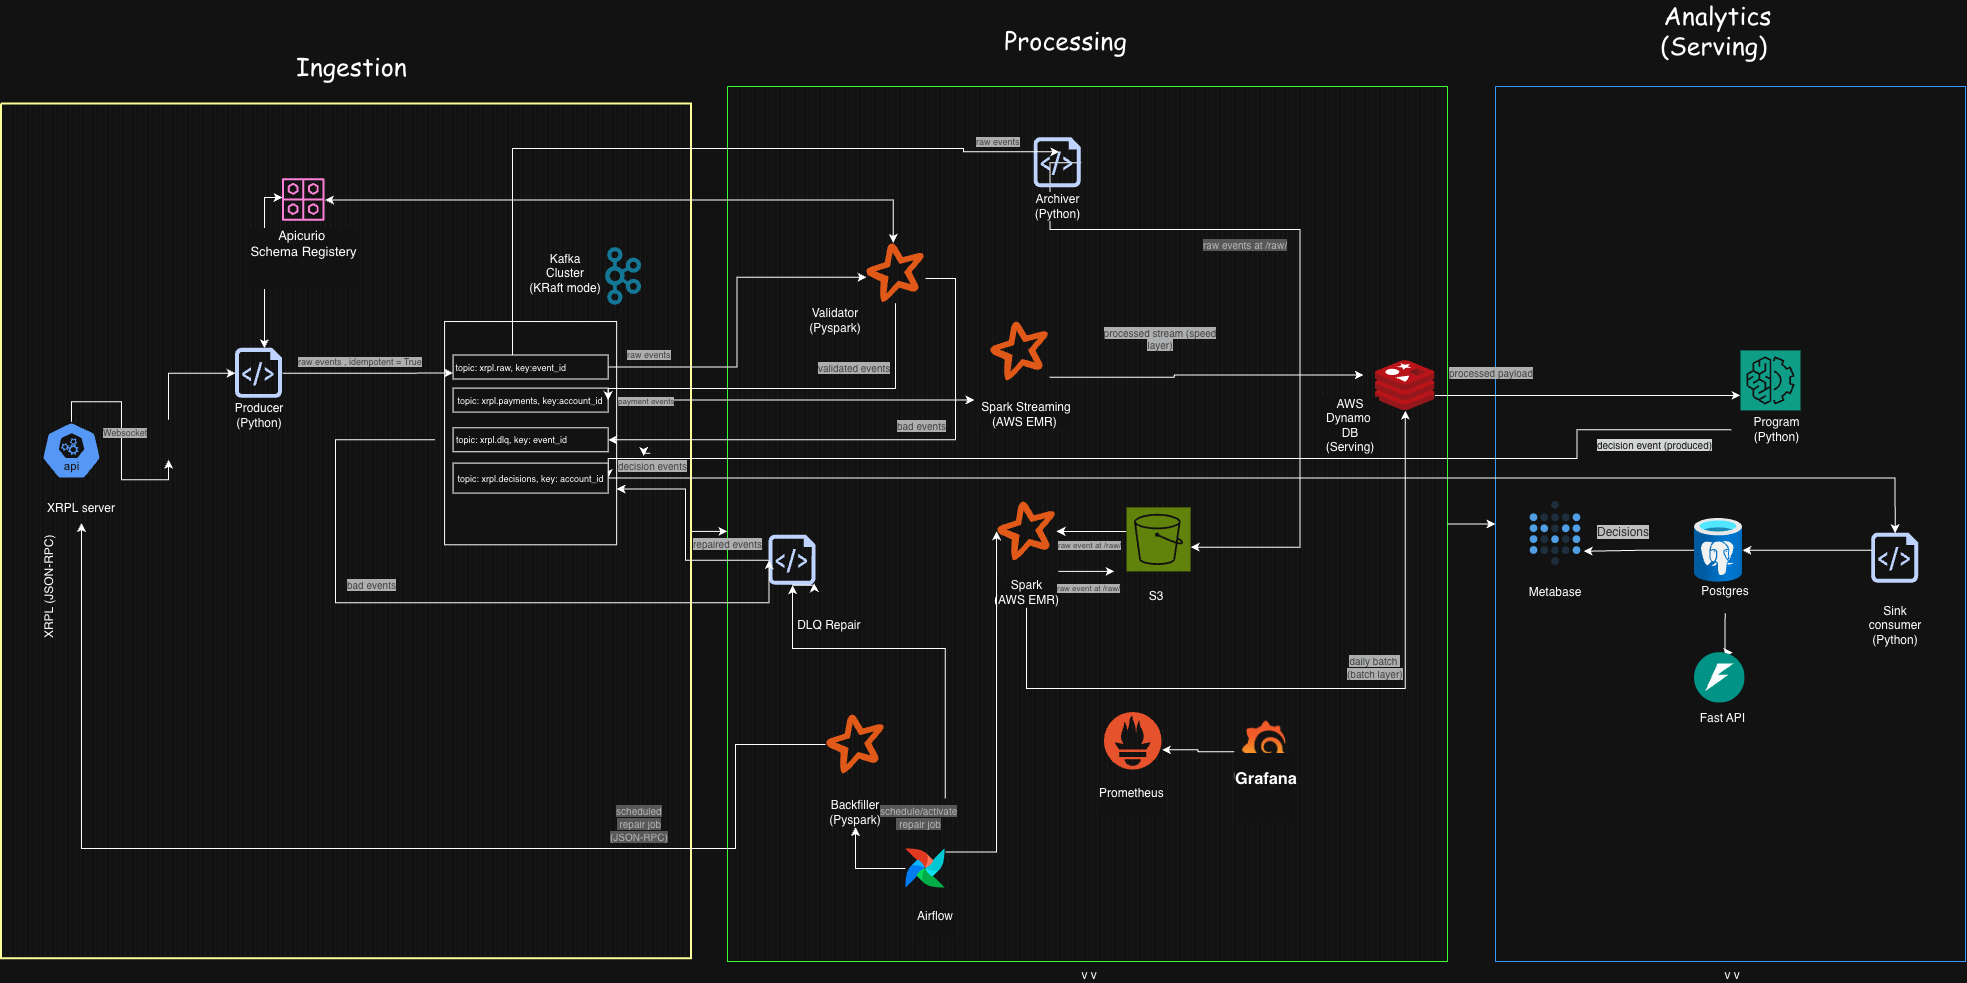
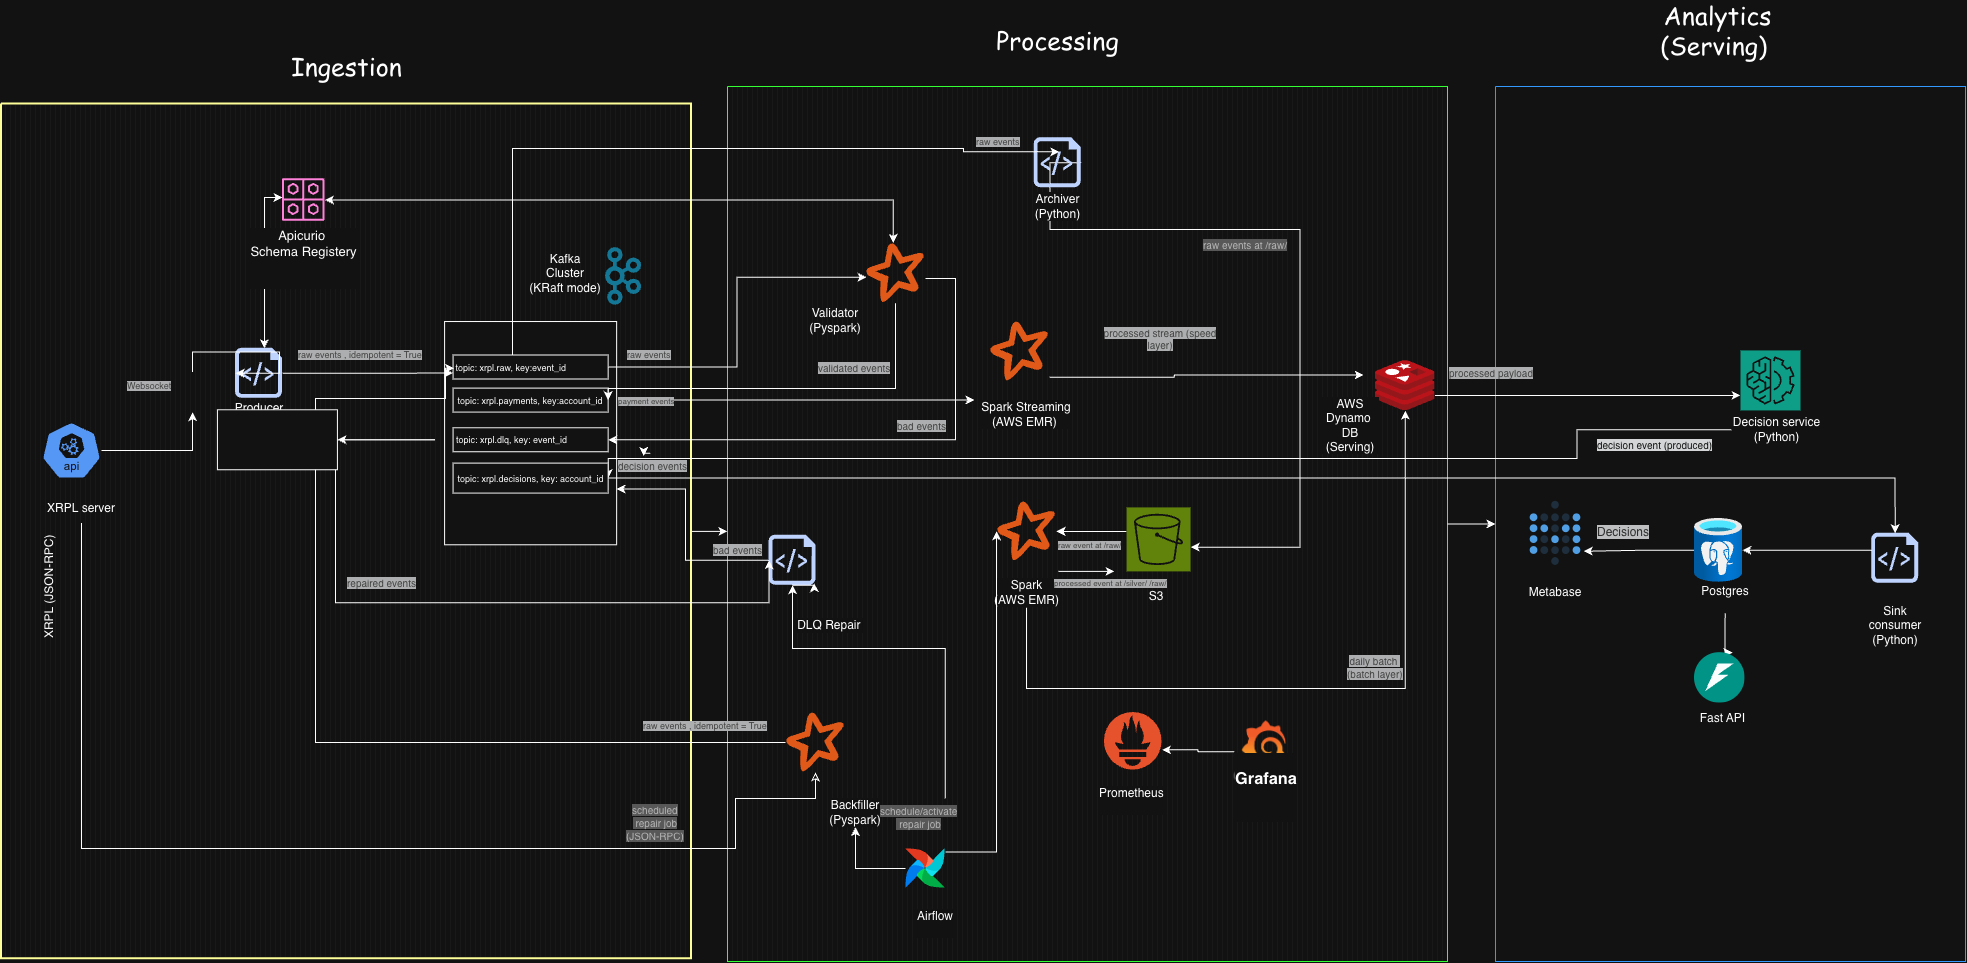
update architecture and requirements documentation

diff --git a/docs/architecture.md b/docs/architecture.md
@@ -1,3 +1,209 @@
-# Architecture
+# Architecture: Real-Time Risk & Decisioning Platform
 
-TODO
+> Status: draft (design v5). For what the system must do and the P0/P1/P2 priorities, see [REQUIREMENTS.md](REQUIREMENTS.md).
+
+## 1. Overview
+
+A streaming platform that scores **live payments** in near real time and returns **explainable risk decisions** from rolling per-account behaviour.
+
+- **Data source:** [XRP Ledger (XRPL)](https://xrpl.org/docs/references/http-websocket-apis/public-api-methods), a public payments network. Free, no API key, live WebSocket push; JSON-RPC for historical and gap fetches.
+- **Entity:** XRPL account (`account_id`). All behavioural features are computed per account.
+- **Output:** one decision per payment (`allow` / `review` / `block`) with a score, reasons, and the rule version that produced it.
+
+## 2. High-Level Design
+
+The system is split into three zones.
+
+| Zone | Responsibility |
+|---|---|
+| **Ingestion** | Receive XRPL events, wrap them in an envelope, enforce contracts, publish to Kafka |
+| **Processing** | Validate, deduplicate, archive, compute real-time and batch features, handle problem events |
+| **Analytics (Serving)** | Serve features, make decisions, store and expose decisions |
+
+```mermaid
+flowchart LR
+  subgraph ING[Ingestion]
+    XRPL[XRPL server<br/>WebSocket / JSON-RPC]
+    PROD[Producer<br/>Python]
+    REG[Apicurio<br/>Schema Registry]
+    BF[Backfiller<br/>PySpark]
+  end
+
+  subgraph KAFKA[Kafka - KRaft]
+    RAW[(xrpl.raw<br/>key: event_id)]
+    PAY[(xrpl.payments<br/>key: account_id)]
+    DLQ[(xrpl.dlq<br/>key: event_id)]
+    DEC[(xrpl.decisions<br/>key: account_id)]
+  end
+
+  subgraph PROC[Processing]
+    VAL[Validator<br/>PySpark]
+    ARC[Archiver<br/>Python]
+    SS[Spark Structured Streaming<br/>speed layer]
+    SB[Spark batch<br/>daily]
+    S3[(S3<br/>/raw /silver /gold /dlq)]
+    REP[DLQ repair<br/>Python]
+    AF[Airflow]
+  end
+
+  subgraph SRV[Analytics / Serving]
+    DDB[(DynamoDB<br/>account_features)]
+    DS[Decision service<br/>Python]
+    SINK[Sink consumer<br/>Python]
+    PG[(PostgreSQL)]
+    API[FastAPI]
+    MB[Metabase]
+  end
+
+  XRPL -- WebSocket --> PROD --> RAW
+  REG -. schemas .- PROD
+  REG -. schemas .- VAL
+  XRPL -- JSON-RPC --> BF --> RAW
+
+  RAW --> VAL
+  VAL -- valid --> PAY
+  VAL -- invalid --> DLQ
+  RAW --> ARC --> S3
+
+  PAY --> SS -- rt features --> DDB
+  S3 -- /raw --> SB -- batch features --> DDB
+  SB -- /silver /gold --> S3
+
+  DLQ --> REP
+  REP -- fixable --> RAW
+  REP -- unfixable --> S3
+
+  PAY -- trigger --> DS
+  DDB -- feature read --> DS
+  DS --> DEC --> SINK --> PG
+  PG --> API
+  PG --> MB
+
+  AF -. schedules .-> SB
+  AF -. schedules .-> REP
+  AF -. schedules .-> BF
+```
+
+Prometheus and Grafana scrape every service and are left out of the diagram for readability.
+
+### End-to-end flow
+
+1. XRPL (WebSocket) → Producer → `xrpl.raw`
+2. Backfiller (JSON-RPC, Airflow) → `xrpl.raw`
+3. `xrpl.raw` → Validator → `xrpl.payments`; invalid → `xrpl.dlq`
+4. `xrpl.raw` → Archiver → S3 `/raw/`
+5. `xrpl.payments` → Spark Streaming → DynamoDB (real-time features)
+6. S3 `/raw/` → Spark batch (daily, Airflow) → DynamoDB + S3 `/silver/` `/gold/`
+7. `xrpl.dlq` → DLQ repair (Airflow) → `xrpl.raw`
+8. `xrpl.payments` → Decision service (reads DynamoDB) → `xrpl.decisions`
+9. `xrpl.decisions` → Sink consumer → PostgreSQL → Metabase / FastAPI
+
+## 3. Key Technology Decisions
+
+| Area | Decision | Why |
+|---|---|---|
+| Event bus | Kafka, single cluster in **KRaft mode** | Buffers bursts, supports replay; KRaft removes ZooKeeper |
+| Schema registry | **Apicurio** (self-hosted) | Open-source data contracts on every topic write |
+| Stream and batch processing | **PySpark** (Structured Streaming + batch) | One stack for both layers; built-in watermarking and dedup |
+| Serving store | **AWS DynamoDB** (DynamoDB Local in development) | Key-value lookups per account, native TTL |
+| Custom services | Python | Producer, archiver, DLQ repair, decision service, sink consumer |
+| Decision storage and access | PostgreSQL + FastAPI + Metabase | Queryable history, read-only API, BI dashboards |
+| Orchestration | Airflow | Batch, DLQ repair, replay and backfill scheduling |
+| Monitoring | Prometheus + Grafana | Metrics, SLO panels, alerts |
+| Deployment | Local Docker now; AWS (EMR, DynamoDB, S3) for the cloud phase | Keeps cost near zero while building |
+
+## 4. Components
+
+| Component | Role | Zone | Type |
+|---|---|---|---|
+| Producer (Python) | WebSocket → envelope → `xrpl.raw` | Ingestion | Core |
+| Kafka (KRaft) | Event bus and buffer | Ingestion | Core |
+| Apicurio Schema Registry | Data contracts on every topic write | Ingestion | Core |
+| Backfiller (PySpark) | Gap and historical fetch via JSON-RPC | Ingestion | Supporting |
+| Validator (PySpark) | Validity, normalisation, dedup, DLQ routing | Processing | Core |
+| Archiver (Python) | `xrpl.raw` → S3 `/raw/` | Processing | Core |
+| Spark Structured Streaming | Event time, windows, real-time features | Processing | Core |
+| Spark batch | Daily long-window features | Processing | Supporting |
+| S3 | Raw archive, silver/gold, DLQ archive | Processing | Core |
+| DLQ repair (Python) | Fix and resubmit DLQ events | Processing | Supporting |
+| Airflow | Batch, DLQ repair, replay, backfill scheduling | Processing | Supporting |
+| Prometheus + Grafana | Metrics, dashboards, alerts | Processing | Supporting |
+| AWS DynamoDB | Serving store for online features (rt, batch) | Serving | Core |
+| Decision service (Python) | Rules + reasons (model later) | Serving | Core |
+| Sink consumer (Python) | `xrpl.decisions` → PostgreSQL | Serving | Core |
+| PostgreSQL | Decision store | Serving | Core |
+| FastAPI | Read-only decision API | Serving | Core |
+| Metabase | BI dashboards | Serving | Supporting |
+| Replayer / chaos tool | Replay and load/failure tests | Processing | Supporting |
+
+## 5. Design Details
+
+### 5.1 Why a separate validator
+
+The validator owns data quality; Spark Streaming owns event-time logic and features. `xrpl.payments` becomes a trusted topic any consumer can use. The cost is one more service and one extra Kafka hop (about 1–2 s of micro-batch latency, within the 5 s SLO). PySpark keeps one stack and gives native dedup.
+
+### 5.2 Lambda design: speed and batch layers
+
+- **Speed layer** (Spark Structured Streaming on `xrpl.payments`): event time = `close_time_iso`, 2 min watermark, sliding windows (10 min velocity, 1 h fan-out and failures). Writes `rt` features with a 2 h TTL.
+- **Batch layer** (daily Spark on S3 `/raw/`): long-window features (30-day averages, usual counterparties and hours, account age) and late events the speed layer skipped. Writes `batch` features with a 48 h TTL, so one failed run does not empty the store.
+- **Merge at read time:** the decision service reads both items for an account in one query; batch features enrich real-time ones.
+
+### 5.3 Serving data model
+
+Single DynamoDB table `account_features`:
+
+- Partition key `account_id`, sort key `feature_set` (`rt` | `batch`), so the two layers never overwrite each other.
+- TTL attribute `expires_at`. DynamoDB deletes expired items with a delay, so readers ignore items past `expires_at`.
+
+### 5.4 Kafka topics and partitioning
+
+| Topic | Key | Written by | Read by | Retention |
+|---|---|---|---|---|
+| `xrpl.raw` | `event_id` | Producer, backfiller, DLQ repair, replayer | Validator, archiver | 7 days |
+| `xrpl.payments` | `account_id` | Validator | Spark Streaming, decision service | 3 days |
+| `xrpl.dlq` | `event_id` | Validator | DLQ repair, Grafana | 14 days |
+| `xrpl.decisions` | `account_id` | Decision service | Sink consumer | 7 days |
+
+**Key rule:** key by `event_id` where data is raw or broken (no trusted account yet, even spread, duplicates land together); key by `account_id` where data is clean and per-account order matters. Categories such as `reason_code` or `event_type` go in fields and headers, not keys.
+
+**Hot partitions:** heavy accounts are salted (`account_id#0..n`) on account-keyed topics and merged downstream.
+
+### 5.5 Storage
+
+| Store | Key | Written by | Read by | Retention / TTL |
+|---|---|---|---|---|
+| DynamoDB `account_features` (rt) | `account_id` + `rt` | Spark Streaming | Decision service | TTL 2 h |
+| DynamoDB `account_features` (batch) | `account_id` + `batch` | Spark batch | Decision service | TTL 48 h |
+| S3 `/raw/` | date partitions | Archiver | Spark batch, replayer | 90 days |
+| S3 `/silver/` `/gold/` | date partitions | Spark batch | Analytics, history | TBD |
+| S3 `/dlq/` | date partitions | DLQ repair | Manual review | TBD |
+| PostgreSQL `decisions` | `event_id` | Sink consumer | Metabase, FastAPI | 30 days (partitioned by day) |
+
+S3 `/raw/` keeps every event as received, including invalid and late ones, and is the source of truth for replay and batch.
+
+### 5.6 Problem events
+
+| Problem event | Goes to | Put there by | Handled by | When |
+|---|---|---|---|---|
+| Invalid (missing field, failed tx, unknown amount format) | `xrpl.dlq` + `reason_code` | Validator | DLQ repair (Airflow) | Hourly |
+| Fixed (repaired DLQ event) | Back to `xrpl.raw` | DLQ repair | Validator (re-checked) | After repair |
+| Unfixable | S3 `/dlq/` | DLQ repair | Manual review | — |
+| Late (> 2 min for real time) | Already in S3 `/raw/` | Archiver | Spark batch | Daily |
+| Duplicate | Dropped | Validator (dedup) | — | Real time |
+
+### 5.7 Replay and backfill
+
+- **Replay:** re-read a chosen S3 `/raw/` range into `xrpl.raw` after a rule change or re-validation.
+- **Backfiller:** fetches gaps and historical ranges from XRPL via JSON-RPC (`ledger_index` + `ledger`) into `xrpl.raw`, throttling itself on `"warning": "load"`.
+- **Replayer / chaos tool:** replays recorded data at 10–100x with injected duplicates, delays, reordering, hot keys, malformed events and bursts, for load and failure testing.
+
+## 6. Observability
+
+- Every service exposes Prometheus metrics: events in vs decisions out per second, consumer lag per partition, DLQ count by reason, late events, retries, WebSocket reconnects.
+- Grafana dashboards query Prometheus; the latency SLI (`decided_at − received_at`) has an SLO panel and alerts (Slack/email).
+
+## 7. Deployment
+
+- **Now:** everything runs in Docker Compose locally (Kafka, Apicurio, Spark, DynamoDB Local, PostgreSQL, Airflow, Prometheus, Grafana, Metabase).
+- **Cloud phase:** Spark on AWS EMR; DynamoDB and S3 on AWS; other services on EC2. AWS runs only for demo and load-test sessions and is shut down afterwards.
+- **Availability trade-off:** single region, no multi-region; single points of failure are documented as accepted risks.

diff --git a/docs/requirements.md b/docs/requirements.md
@@ -1,3 +1,159 @@
-# Requirements
+# Requirements: Real-Time Risk & Decisioning Platform
 
-TODO
+> Status: draft (design v5). For how the system is built, see [ARCHITECTURE.md](ARCHITECTURE.md).
+
+## 1. Scope
+
+Score **live XRPL payments** in near real time and return an **explainable risk decision** (`allow` / `review` / `block`) for each one, based on rolling per-account behaviour.
+
+## 2. Priority Levels
+
+| Priority | Meaning | Rule of thumb |
+|---|---|---|
+| **P0** | Must have | Needed for one working end-to-end flow: payment in → decision out |
+| **P1** | Good to have | Makes it production-like: replay, batch layer, BI, API, SLOs |
+| **P2** | Later | Hardening and extras: backfill, chaos/load tests, DLQ repair, ML model |
+
+## 3. Functional Requirements (data-flow order)
+
+### 3.1 Ingestion: Producer
+
+| Requirement | Priority |
+|---|---|
+| Connect to XRPL via WebSocket; subscribe to the `transactions` and `ledger` streams. | P0 |
+| Reconnect with backoff and re-subscribe after a disconnect. | P0 |
+| Wrap each event in an envelope: `event_id` (tx hash), `event_time`, `received_at`, `ledger_index`, `ingest_mode`, raw payload. | P0 |
+| Publish to `xrpl.raw`, key `event_id`; idempotent producer (`enable.idempotence=true`, `acks=all`). | P0 |
+| Second endpoint (`s1.ripple.com` + `xrplcluster.com`) with failover. | P2 |
+| Track `last_seen_ledger`; log and alert on ledger gaps. | P2 |
+
+### 3.2 Schema Registry
+
+| Requirement | Priority |
+|---|---|
+| Schema check on every topic write (producer, validator, Spark, decision service). | P1 |
+| `xrpl.raw`: envelope schema only (payload kept as raw JSON). Strict schemas from `xrpl.payments` onward. | P1 |
+| Backward-compatible mode; schema changes checked in CI. | P2 |
+
+### 3.3 Kafka
+
+| Requirement | Priority |
+|---|---|
+| Topics: `xrpl.raw`, `xrpl.payments`, `xrpl.dlq`, `xrpl.decisions`. | P0 |
+| Partition keys: `xrpl.raw` = `event_id`; `xrpl.payments` = `account_id`; `xrpl.dlq` = `event_id`; `xrpl.decisions` = `account_id`. | P0 |
+| Hot partitions: salt keys of heavy accounts (`account_id#0..n`) on account-keyed topics, merge downstream. | P1 |
+
+### 3.4 Validator
+
+| Requirement | Priority |
+|---|---|
+| Consume `xrpl.raw`; valid → `xrpl.payments`; invalid → `xrpl.dlq` with `reason_code`. | P0 |
+| Validity: `Payment`, `tesSUCCESS`, `Account` and `Destination` present. | P0 |
+| Normalise amount (XRP drops vs token object) using `delivered_amount`. | P0 |
+| Deduplicate by tx hash (`dropDuplicatesWithinWatermark`); hash marked seen only when accepted. | P0 |
+
+### 3.5 Raw Archive
+
+| Requirement | Priority |
+|---|---|
+| Archiver copies `xrpl.raw` → S3 `/raw/`, partitioned by date; runs continuously, writes in batches. | P1 |
+| `/raw/` keeps everything as received (including invalid and late events). | P1 |
+
+### 3.6 Speed Layer (real-time features)
+
+| Requirement | Priority |
+|---|---|
+| Consume `xrpl.payments`; event time = `close_time_iso`. | P0 |
+| Watermark = 2 min; later events skipped for real-time windows and counted (`late_events_total`). | P0 |
+| Sliding 10 min: payment count, total amount (velocity). | P0 |
+| Sliding 1 h: new destinations (fan-out), failed-tx count. | P1 |
+| Session window (30 min inactivity): activity-burst length and amount. | P2 |
+| Write real-time features to DynamoDB (`account_id` + `rt`), TTL 2 h. | P0 |
+| Checkpointing so restarts do not lose or double-count state. | P0 |
+
+### 3.7 Batch Layer (daily features)
+
+| Requirement | Priority |
+|---|---|
+| Read the day's S3 `/raw/`, including late events skipped by the speed layer. | P1 |
+| Features: 30-day avg/std amount, tx per day, usual counterparties, usual active hours, account age, failed-tx share. | P1 |
+| Write batch features to DynamoDB (`account_id` + `batch`), TTL 48 h. | P1 |
+| Write S3 `/silver/` (clean) and `/gold/` (feature tables, decisions older than 30 days). | P1 |
+
+### 3.8 Serving Store
+
+| Requirement | Priority |
+|---|---|
+| Table `account_features`: partition key `account_id`, sort key `feature_set` (`rt` \| `batch`); no overwrites between layers. | P0 |
+| TTL attribute `expires_at`; readers ignore items past `expires_at`. | P0 |
+| Decision service reads both items in one query and merges them. | P1 |
+| Local development with DynamoDB Local; same code against AWS. | P0 |
+
+### 3.9 Decision Service
+
+| Requirement | Priority |
+|---|---|
+| Triggered per event from `xrpl.payments`; reads features from DynamoDB. | P0 |
+| Rules as versioned config, real-time only: velocity (10 min), partial payment (delivered < requested). | P0 |
+| Rules needing 1 h windows or batch features: fan-out, failure streak, spend spike (> k × 30-day avg), new account with large amount. | P1 |
+| Output to `xrpl.decisions`: `event_id`, `account_id`, `decision`, `score`, `reasons[]`, `rule_version`, `received_at`, `decided_at`. | P0 |
+| Model score (rule-based script now; trained model decided later). | P2 |
+
+### 3.10 Decision Storage, API and BI
+
+| Requirement | Priority |
+|---|---|
+| Sink consumer: `xrpl.decisions` → PostgreSQL, idempotent (`ON CONFLICT (event_id)`), batched inserts. | P0 |
+| PostgreSQL partitioned by day, 30 days; older decisions in S3 `/gold/`. | P1 |
+| Metabase dashboards: flag rate per rule, top flagged accounts, trends. | P1 |
+| FastAPI (read-only): `GET /decisions/{event_id}`, `GET /accounts/{id}/decisions`. | P1 |
+
+### 3.11 Problem Events (DLQ)
+
+| Requirement | Priority |
+|---|---|
+| One DLQ topic; each event carries `reason_code`, `stage`, `failed_at`, original event (`reason_code` also as a header). DLQ counts by reason in Grafana. | P0 |
+| DLQ repair (hourly, Airflow): fixable → republish to `xrpl.raw`; unfixable → S3 `/dlq/`. | P2 |
+
+### 3.12 Replay and Backfill
+
+| Requirement | Priority |
+|---|---|
+| Replay: re-read S3 `/raw/` into Kafka for a chosen range (rule changes, re-validation). | P1 |
+| Backfiller via JSON-RPC (`ledger_index` + `ledger`): gap and historical ranges → `xrpl.raw`; self-throttled on `"warning": "load"`. | P2 |
+
+### 3.13 Observability and Testing
+
+| Requirement | Priority |
+|---|---|
+| Prometheus scrapes all services: throughput, lag per partition, DLQ by reason, late events, reconnects. | P0 |
+| Grafana dashboards on Prometheus. | P0 |
+| End-to-end latency SLI (`decided_at − received_at`) with SLO panel and alerts (Slack/email). | P1 |
+| Replayer / chaos tool: replay at 10–100x with duplicates, delays, reordering, hot keys, malformed events, bursts. | P2 |
+| Load-testing report and operational runbooks. | P2 |
+
+## 4. Non-Functional Requirements
+
+| Attribute | Requirement | Priority |
+|---|---|---|
+| Durability | No acknowledged event lost: `acks=all`, Spark checkpoints, idempotent sinks; S3 raw archive (P1). | P0 |
+| Idempotency | Every sink (PostgreSQL, DynamoDB, S3) tolerates repeated messages. | P0 |
+| Burst handling | Kafka buffers bursts; consumers catch up without data loss. | P0 |
+| Explainability | Every decision stores reasons and rule version. | P0 |
+| State bounds | DynamoDB TTLs: rt 2 h, batch 48 h. PostgreSQL 30 days. | P0 |
+| Availability | Local Docker, then a single AWS region for sessions. No multi-region; single points of failure documented as accepted risks. | P0 |
+| Latency (SLI/SLO) | SLI = `decided_at − received_at`. SLO = 99% of decisions within 5 s. | P1 |
+| Retention | Kafka: `xrpl.raw` 7 d, `xrpl.payments` 3 d, `xrpl.dlq` 14 d, `xrpl.decisions` 7 d. S3 `/raw/` 90 d. PostgreSQL 30 d. | P1 |
+| Late-data tolerance | Real time accepts ≤ 2 min late; later events corrected by the daily batch. | P1 |
+| Replayability | Any range reprocessable from S3 `/raw/` with new validator or rule versions. | P1 |
+| Scalability | Grow from ~1M to 5M tx/day by adding partitions/consumers and Spark executors. | P1 |
+| Throughput (load test) | Sustain 5M tx/day (≈58 events/s) and bursts of 5,000 events/s for 10 min; p99 < 5 s; lag recovers within 5 min. | P2 |
+| Observability | Every service exposes metrics; every alert has a runbook. | P2 |
+
+## 5. Open Questions
+
+- Is recording the live XRPL feed and replaying it at 10–100x acceptable for volume and failure testing?
+- Lambda vs Kappa: keep the batch layer? Proposal: keep it (30-day features; corrects late events).
+- BI: is PostgreSQL (30 days) + Metabase enough, or is a real-time OLAP store (Druid / ClickHouse) needed?
+- Is 5M tx/day sustained plus 5,000 events/s bursts the right load-test bar?
+- Rule-based scoring vs a trained model (deferred).
